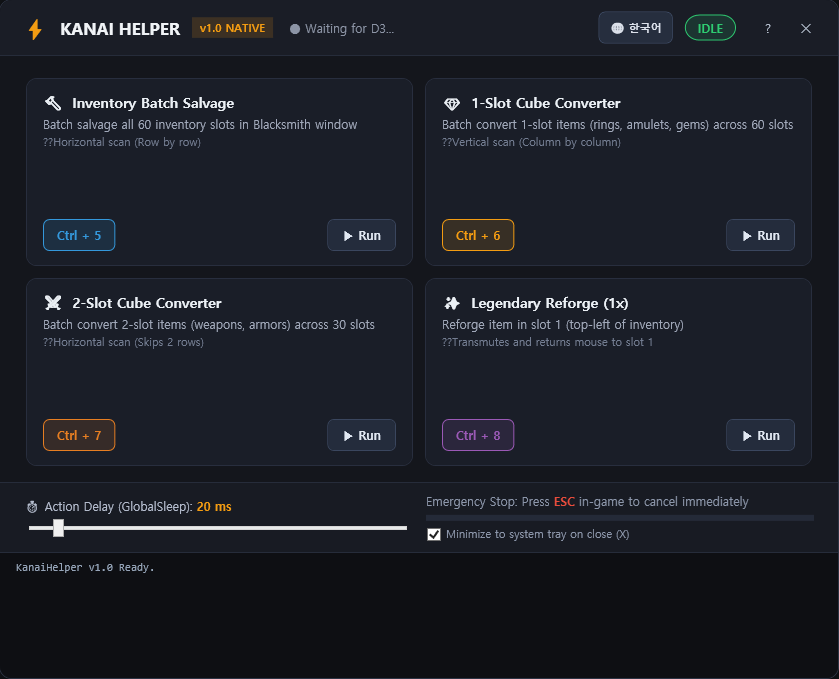
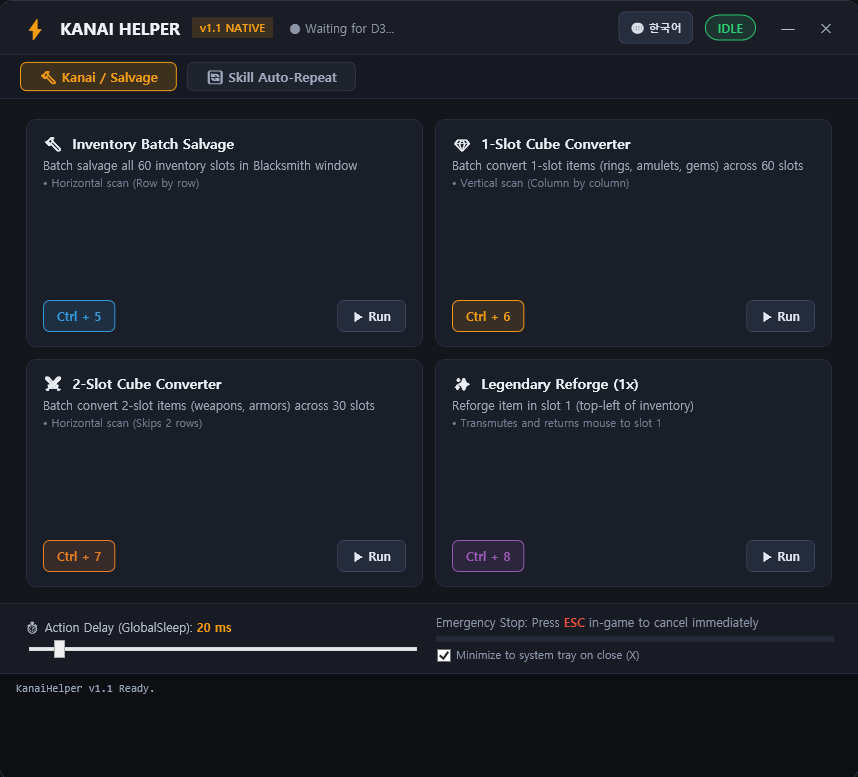
docs: update direct v1.1.0 release download link and replace screenshots with v1.1 dual tabs

diff --git a/README.md b/README.md
@@ -2,16 +2,17 @@
 
 <div align="center">
 
-### 🎮 [👉 최신 버전 원클릭 다운로드 (KanaiHelper_v1.1.0_Portable.zip)](https://github.com/keunseop/KanaiHelper/releases/latest/download/KanaiHelper_v1.1.0_Portable.zip) 📥
+### 🎮 [👉 최신 버전 원클릭 다운로드 (KanaiHelper_v1.1.0_Portable.zip)](https://github.com/keunseop/KanaiHelper/releases/download/v1.1.0/KanaiHelper_v1.1.0_Portable.zip) 📥
 
 [![VirusTotal Clean](https://img.shields.io/badge/VirusTotal-Clean%20(0%2F62)-brightgreen?logo=virustotal&style=flat-square)](https://www.virustotal.com/gui/file/7503ef0961cc02c13e33d0c93337eb69da3520ae4e783160d693c9167cac6880?nocache=1)
+[![Release: v1.1.0](https://img.shields.io/badge/Release-v1.1.0-blue?style=flat-square&logo=github)](https://github.com/keunseop/KanaiHelper/releases/tag/v1.1.0)
 [![License: MIT](https://img.shields.io/badge/License-MIT-blue.svg?style=flat-square)](LICENSE)
 [![Platform: Windows](https://img.shields.io/badge/Platform-Windows%2064--bit-lightgrey?style=flat-square&logo=windows)](https://github.com/keunseop/KanaiHelper)
 
 > 💡 **별도의 설치나 소스코드 빌드가 전혀 필요 없습니다!**  
 > 위 다운로드 링크를 눌러 압축 파일(`.zip`)을 받으신 후,  
 > 압축을 풀고 **`KanaiHelper.exe`**를 실행하시면 즉시 사용하실 수 있습니다.  
-> 🛡 [**VirusTotal 60여 개 백신 무결점(0/62 Clean) 검사 결과 실시간 확인**](https://www.virustotal.com/gui/file/7503ef0961cc02c13e33d0c93337eb69da3520ae4e783160d693c9167cac6880?nocache=1)  
+> 📦 [**v1.1.0 릴리즈 페이지 바로가기**](https://github.com/keunseop/KanaiHelper/releases/tag/v1.1.0) | 🛡 [**VirusTotal 60여 개 백신 무결점(0/62 Clean) 검사 결과 실시간 확인**](https://www.virustotal.com/gui/file/7503ef0961cc02c13e33d0c93337eb69da3520ae4e783160d693c9167cac6880?nocache=1)  
 
 ---
 
@@ -21,7 +22,13 @@
 
 ### 🖥 프로그램 실행 화면 (Modern Dark UI Dashboard)
 
-<img src="assets/screenshot.png" alt="KanaiHelper GUI Dashboard" width="720">
+#### 1) 🔨 카나이의 함 변환 & 인벤토리 일괄 분해 대시보드
+<img src="assets/screenshot_kanai.png" alt="KanaiHelper Kanai / Salvage Dashboard" width="760">
+
+<br>
+
+#### 2) 🔄 스킬 자동 반복 & 마우스 홀드 연타 (D3 Helper 기능)
+<img src="assets/screenshot_repeat.png" alt="KanaiHelper Skill Auto-Repeat & Mouse Rapid-Click" width="760">
 
 </div>
 
